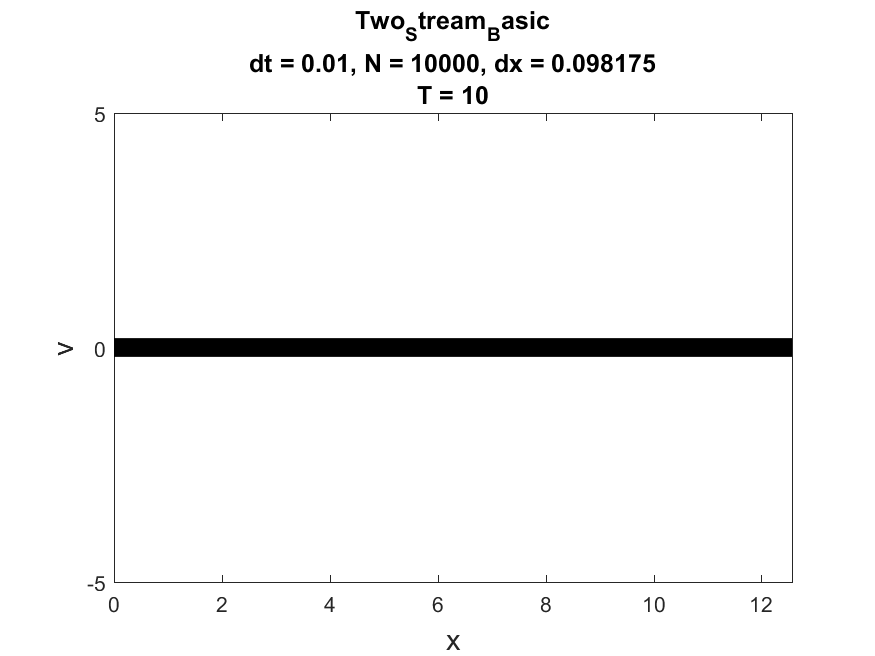
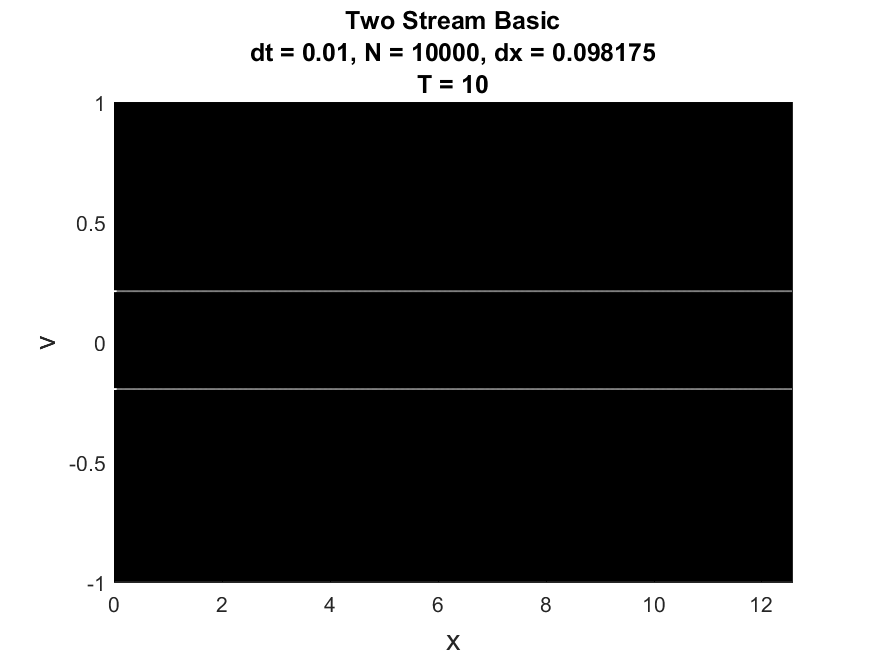
Fixed phase-space bound issues.

diff --git a/+PIC/movie_run.m b/+PIC/movie_run.m
@@ -53,11 +53,19 @@ function movie_run( DT, NT, NG, N, distribution, params, saveFrameNum, movieFram
     open(video);
     
     distribution = strrep(distribution, '_', ' ');
+	
+	% Find a suitably large value for the bound on velocity in the phase space images.  Multiply the max by 2 then round
+	% up to the nearest decimal value.
+	% This isn't an exceptional metric - it may be best to hardcode values for specific distributions.
+	vBound = 2*max(abs(vp));
+	powTen = 10^floor(-log10(vBound));
+	vBound = ceil(vBound*powTen)/powTen;
+	% vBound = 1;
     
     f = figure(1);
-    set(gcf, 'Visible', 'off');
+    %set(gcf, 'Visible', 'off');
     Title = {distribution; ['dt = ' num2str(DT) ', N = ' num2str(N, '%g') ', dx = ' num2str(dx)]; ['T = ' num2str(DT*0)]};
-    phaseSpace(xp, vp, NGp, L, Title);
+    phaseSpace(xp, vp, NGp, L, Title, vBound);
     
     saveas(f, 'images/initialPhaseSpaceflat.png');
     
@@ -121,7 +129,7 @@ function movie_run( DT, NT, NG, N, distribution, params, saveFrameNum, movieFram
 
         if mod(it*DT, 1) == 0
             Title = {distribution; ['dt = ' num2str(DT) ', N = ' num2str(N, '%g') ', dx = ' num2str(dx)]; ['T = ' num2str(DT*it)]};
-            phaseSpace(xp, vp, NGp, L, Title);
+            phaseSpace(xp, vp, NGp, L, Title, vBound);
             writeVideo(video, getframe(f));
             pause(0.01);
             if mod(it*DT, 5) == 0
@@ -134,7 +142,7 @@ function movie_run( DT, NT, NG, N, distribution, params, saveFrameNum, movieFram
 
     
     Title = {distribution; ['dt = ' num2str(DT) ', N = ' num2str(N, '%g') ', dx = ' num2str(dx)]; ['T = ' num2str(NT*DT)]};
-    phaseSpace(xp, vp, NGp, L, Title);
+    phaseSpace(xp, vp, NGp, L, Title, vBound);
     saveas(gcf, 'images/finalPhaseSpaceflat.png');
     
     close(video);
@@ -164,34 +172,33 @@ function movie_run( DT, NT, NG, N, distribution, params, saveFrameNum, movieFram
     semilogy(time(2:end), histTotEnergy);
     title({[distribution ' Total Energy']; ['dt = ' num2str(DT) ', N = ' num2str(N, '%g') ', dx = ' num2str(dx)]});
     saveas(f, 'images/totalDamping.png')
+    
     minVP
     maxVP
 end
 
-function phaseSpace(xp, vp, NG, L, Title)
+function phaseSpace(xp, vp, NG, L, Title, yBound)
     % Create a plot of the phaseSpace
     dx = L/NG;
     g1=floor(xp/dx-.5)+1;
-    dv = (max(vp) - min(vp))/NG;
+    dv = 2*yBound/NG;
     g2 = floor(vp/dv-.5)+1;
-    n = histcn([g1,g2], NG, NG);
+    n = histcn([g1,g2], linspace(0, NG+1, NG+1), linspace(-NG/2, NG/2, NG+1));
+    size(n)
     n1 = n';
-    %n1(size(n,1) + 1, size(n,2) + 1) = 0;
     
     % Wrap around
     n1(:, 1) = n1(:, 1) + n1(:, end);
     n1(:, end) = n1(:, 1);
     
-    %xb = linspace(0,L,size(n,1)+1);
-    %yb = linspace(min(vp),max(vp),size(n,1)+1);
-    xb = linspace(0,L,size(n,1));
-    yb = linspace(min(vp),max(vp),size(n,1));
+    xb = linspace(0,L,NG);
+    yb = linspace(-yBound, yBound,NG);%linspace(min(vp),max(vp),size(n,1));
     h = pcolor(xb,yb,n1);
     shading flat
     colormap(gray);
     xlabel('x','Fontsize',14);
     ylabel('v','Fontsize',14);
-    axis([0,4*pi,-5,5])
+    axis([0,L,-yBound,yBound])
     title(Title,'Fontsize',12,'FontWeight','bold');
 end
 
@@ -256,7 +263,7 @@ function [count edges mid loc] = histcn(X, varargin)
     % Bruno Luong: <brunoluong@yahoo.com>
     % Last update: 25/August/2011
 
-    if ndims(X)>2
+    if ~ismatrix(X)
         error('histcn: X requires to be an (M x N) array of M points in R^N');
     end
     DEFAULT_NBINS = 32;
@@ -302,7 +309,7 @@ function [count edges mid loc] = histcn(X, varargin)
         end
         edges{d} = ed;
         % Call histc on this dimension
-        [dummy loc(:,d)] = histc(Xd, ed, 1);
+        [~, loc(:,d)] = histc(Xd, ed, 1);
         % Use sz(d) = length(ed); to create consistent number of bins
         sz(d) = length(ed)-1;
     end % for-loop

diff --git a/Two_Stream/Two_Stream_Movie.m b/Two_Stream/Two_Stream_Movie.m
@@ -7,7 +7,7 @@ addpath('..')
 params = [4*pi, 0.5, 0, 0.2];
 
 DT = 0.01;
-NT = 100/DT+1;
+NT = 100/DT;
 NG = 128;
 N = 1e4;
 

diff --git a/README.md b/README.md
@@ -38,15 +38,15 @@ Using typical parameter values of ..., each evaluation of the PIC algorithm take
 | `NT` | Number of temporal steps |
 | `NG` | Number of spatial gridpoints |
 | `N` | Number of computational particles |
-| `distribution` | Name of the distribution - for use with functions in [`Initilization`](/+PIC/Initilization) and [`QOI_calc`](/+PIC/QOI_calc) |
+| `distribution` | Name of the distribution - for use in determining which functions to use in the [`Initilization`](/+PIC/Initilization) and [`QOI_calc`](/+PIC/QOI_calc) folders |
 | `params` | Parameters for the initilization of the distribution - the spatial length is assumed to come first |
 | `saveFrameNum` | Saves a .png file of the phase-space dynamics at every `saveFrameNum` temporal step (must be a multiple of `movieFrameNum`) |
 | `movieFrameNum` | Adds a frame to the .mp4 movie of phase-space dynamics at every `movieFrameNum` temporal step |
 
-Used to generate still images and movies of phase-space behavior.  Additionally generates plots of the behavior of energy using the second Fourier mode, L2 norm of the electric field, the kinetic energy, the potential energy, and the total energy.  Uses a [`histcn`](https://www.mathworks.com/matlabcentral/fileexchange/23897-n-dimensional-histogram#license_modal) function developed by Bruno Luong.
+Used to generate still images and movies of phase-space behavior.  Additionally generates plots of the behavior of energy using the second Fourier mode, L2 norm of the electric field, the kinetic energy, the potential energy, and the total energy.  Uses a [`histcn`](https://www.mathworks.com/matlabcentral/fileexchange/23897-n-dimensional-histogram#license_modal) function developed by Bruno Luong.  Since maximum boundaries for the velocity are not known, an estimate is used - true values for the maximum and minimum are printed by the function to allow for hard-coded boundaries if this is inaccurate.
 
 
-[`movie_run( DT, NT, NG, N, distribution, params, saveFrameNum, movieFrameNum)`](/+PIC/movie_run.m)
+[`PIC_setup(DT, NT, NG, N, distribution)`](/+PIC/PIC_setup.m)
 
 | Parameter | Meaning |
 | ---- | ---- |
@@ -54,7 +54,9 @@ Used to generate still images and movies of phase-space behavior.  Additionally 
 | `NT` | Number of temporal steps |
 | `NG` | Number of spatial gridpoints |
 | `N` | Number of computational particles |
-| `distribution` | Name of the distribution - for use with functions in [`Initilization`](/+PIC/Initilization) and [`QOI_calc`](/+PIC/QOI_calc) |
+| `distribution` | Name of the distribution - for use in determining which functions to use in the [`Initilization`](/+PIC/Initilization) and [`QOI_calc`](/+PIC/QOI_calc) folders |
+
+Sets up various constant values for use in a PIC function.  Returns a PIC evaluator that accepts a parameter array for use in the initilization function in the [`Initilization`](/+PIC/Initilization) folder.  The length parameter is assumed to come first in this array.  The PIC evaluator returns a metric from the function related to the distribution in the [`QOI_calc`](/+PIC/QOI_calc) folder.
 
 
 
@@ -64,7 +66,7 @@ Used to generate still images and movies of phase-space behavior.  Additionally 
 
 ## Functions
 
-![Alt text](/Landau_Maxwell/Results_LF_A0.5/SSP.png?raw=true "title")
+![Image of the sufficient summary plot for the Maxwell distribution](/Landau_Maxwell/Results_LF_A0.5/SSP.png?raw=true "SSP")
 <!--- can use a branch with the examples to not clutter the main directory --->
 <!--- also potentially try embedding movies? --->
 
